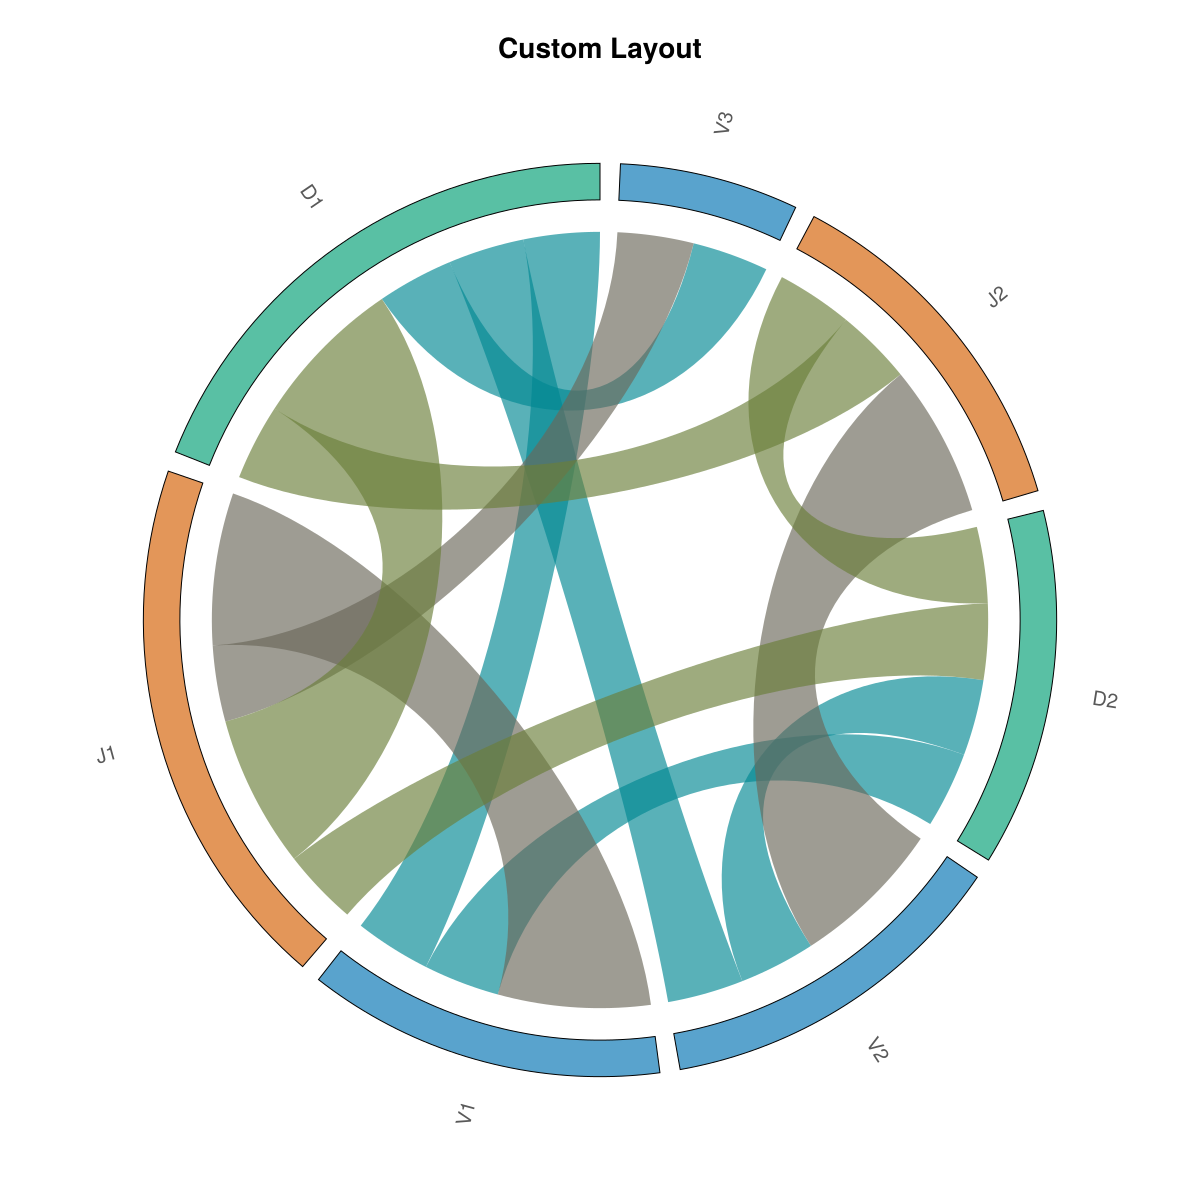
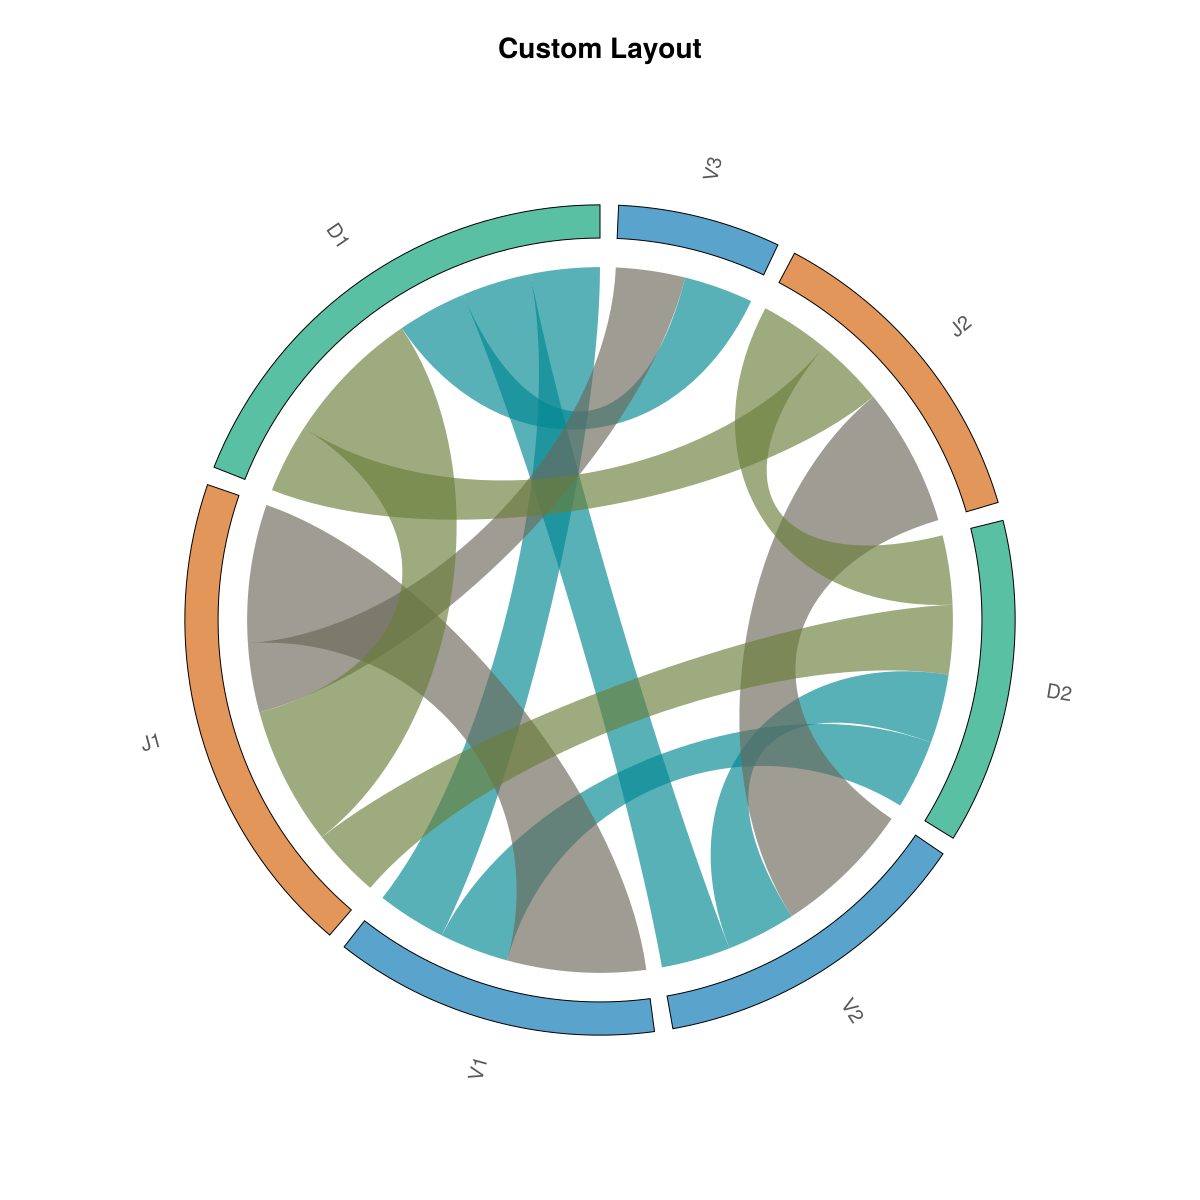
src/layout.jl: Add way to combine labels from multiple cooc.

Changed region(s): [[0.0925, 0.0925, 0.8942, 0.925], [0.7092, 0.8633, 0.74, 0.8942]]

diff --git a/docs/src/user_guide/layout.md b/docs/src/user_guide/layout.md
@@ -44,6 +44,67 @@ These settings work together to create a layout that emphasizes the most importa
 - `:value` - Sort all labels by total flow (descending)
 - `:none` - Use original order
 
+## Consistent Ordering Across Multiple Plots
+
+When comparing chord diagrams from different data sources (e.g. different samples or donors), label order should be consistent so viewers can compare positions. There are two approaches:
+
+### Approach 1: `expand_labels` (show all labels, missing ones as empty arcs)
+
+Use `expand_labels` when you want **all labels to appear in both plots**, even if a label only exists in one matrix. Missing labels appear as empty arcs (zero flow, no ribbons).
+
+```julia
+# Two matrices with different genes
+cooc_A = cooccurrence_matrix(df_A, [:V_call, :J_call])
+cooc_B = cooccurrence_matrix(df_B, [:V_call, :J_call])
+
+# Expand to union of labels (missing labels get zero flow → empty arcs)
+exp_A, exp_B = expand_labels(cooc_A, cooc_B)
+
+# Now both have the same labels; plot with consistent positions
+order = label_order(exp_A)  # or label_order(exp_B) — same labels
+chordplot!(ax1, exp_A; label_order = order)
+chordplot!(ax2, exp_B; label_order = order)
+```
+
+### Approach 2: `label_order` only (each plot shows only its own labels)
+
+Use `label_order` alone when you want each plot to show **only its own labels**, but with shared labels in consistent positions. Labels unique to one matrix won't appear in the other plot.
+
+```julia
+# Get a unified order (union of labels, sorted by combined flow)
+order = label_order(cooc_A, cooc_B)
+
+# Plot with same positions for shared labels; unique labels only in their plot
+chordplot!(ax1, cooc_A; label_order = order)
+chordplot!(ax2, cooc_B; label_order = order)
+```
+
+### Single-Matrix Order (reuse from one plot)
+
+When matrices have the same labels, simply reuse the order from one:
+
+```julia
+# First plot
+fig1, ax1, plt1 = chordplot(cooc_A)
+
+# Extract and reuse its order for a comparable second plot
+order = label_order(cooc_A)
+fig2, ax2, plt2 = chordplot(cooc_B; label_order = order)
+```
+
+### Options for `label_order` with Multiple Matrices
+
+- **`sort_by`**: `:group` (default), `:value`, or `:none` — how labels are sorted.
+- **`include_all`**: If `true` (default), include **all** labels from any matrix. If `false`, include only labels present in **all** matrices (intersection).
+
+```julia
+# Only labels that exist in BOTH matrices
+order_common = label_order(cooc_A, cooc_B; include_all = false)
+
+# Sort by total combined flow across both
+order_by_value = label_order(cooc_A, cooc_B; sort_by = :value)
+```
+
 ## Accessing Layout Data
 
 ```julia

diff --git a/docs/src/api.md b/docs/src/api.md
@@ -26,6 +26,7 @@ filter_top_n
 filter_by_threshold
 normalize
 mean_normalized
+expand_labels
 ```
 
 ## Data Exploration
@@ -43,6 +44,7 @@ value_histogram!
 ```@docs
 filter_ribbons
 filter_ribbons_top_n
+label_order
 LayoutConfig
 ChordLayout
 ```
